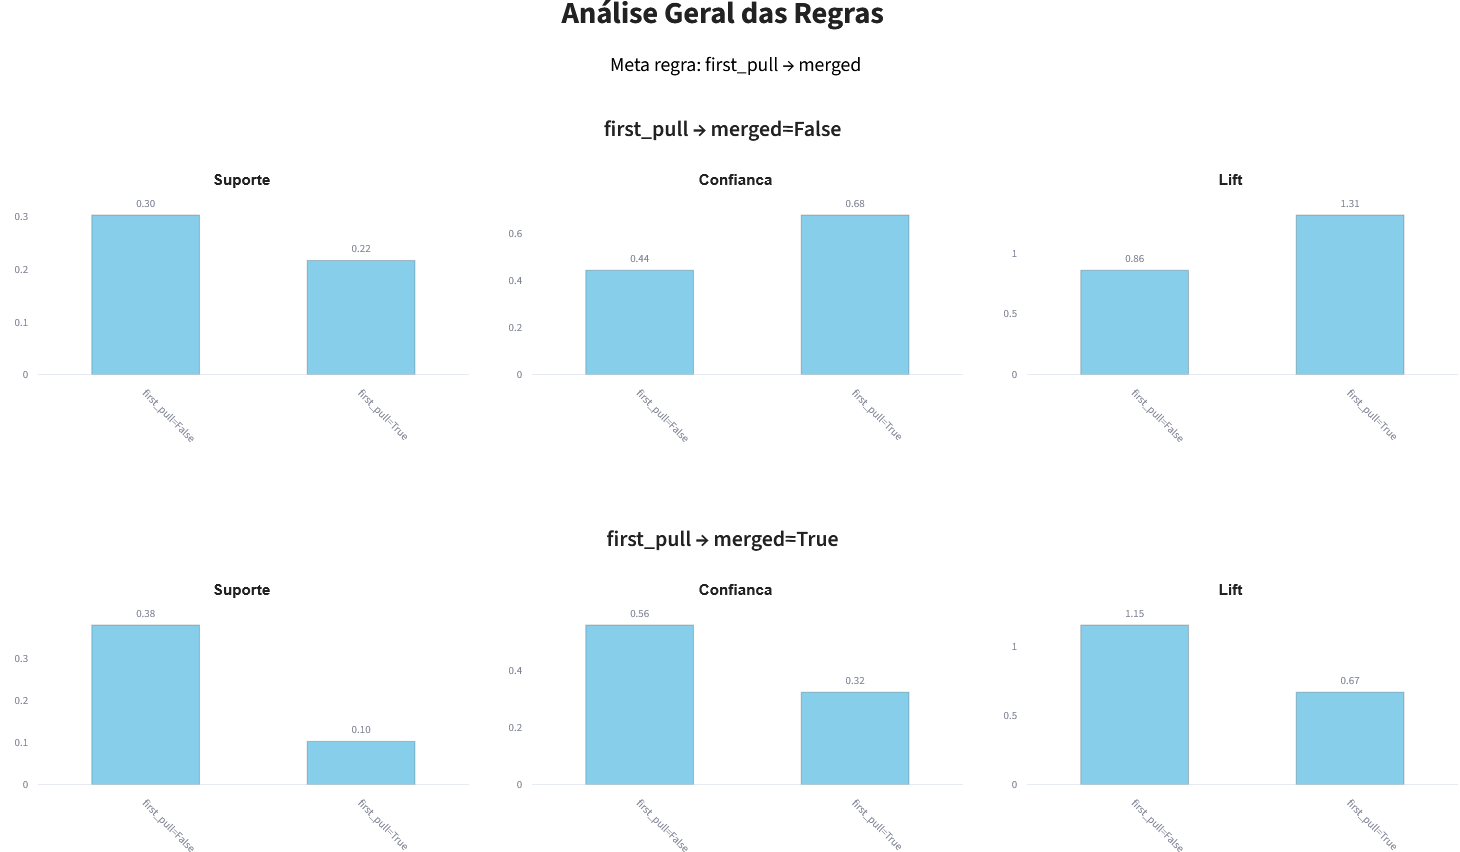
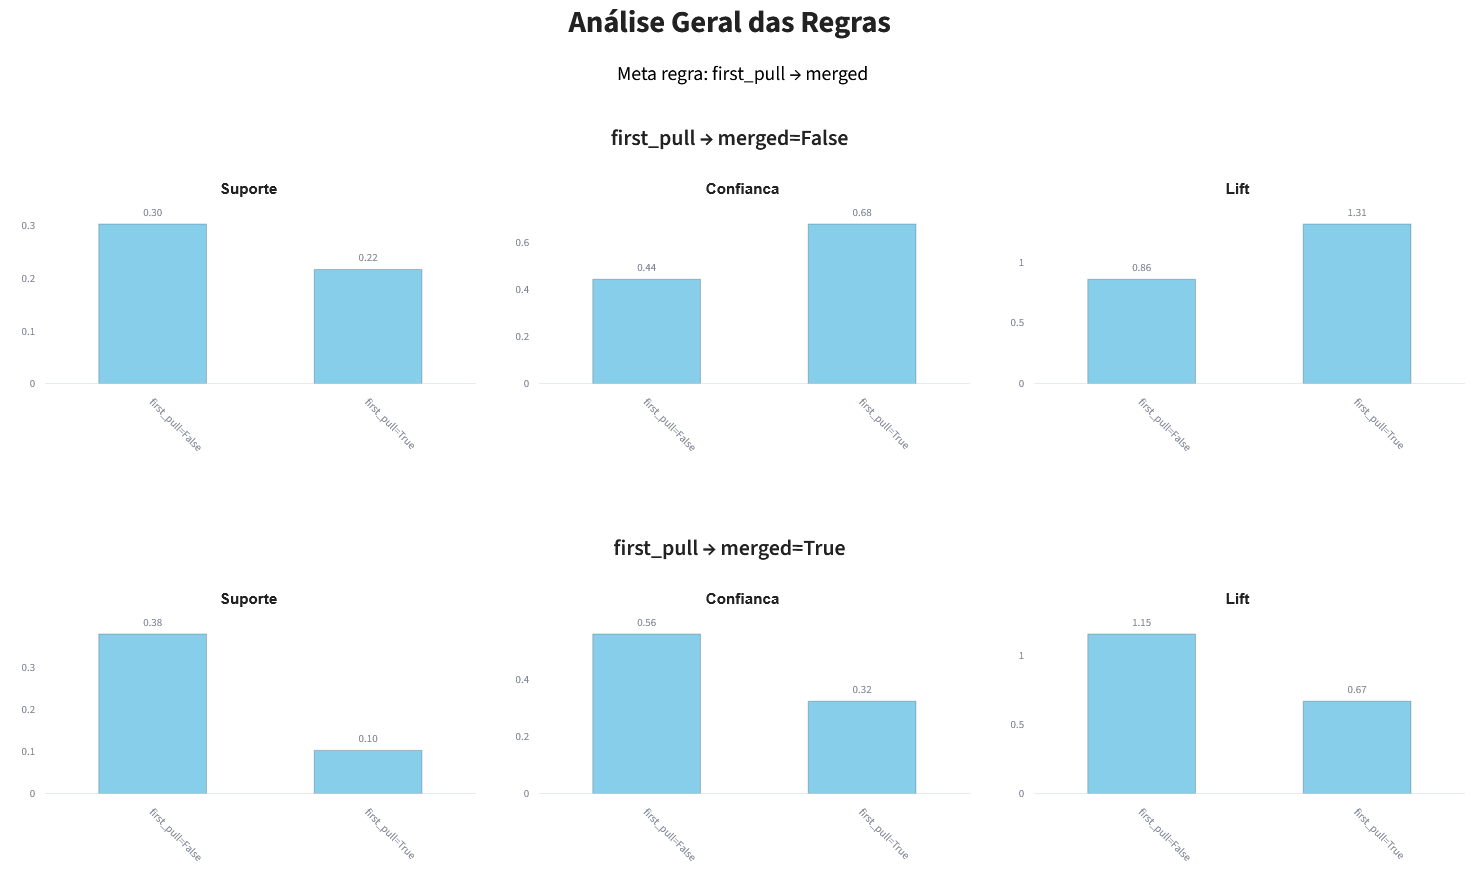
Update README.md with reproducible validation example and analysis instructions; add new images for general and temporal analysis

diff --git a/README.md b/README.md
@@ -157,35 +157,25 @@ To use an example dataset:
 - Run the analysis and explore the temporal visualizations presented.
 
 
-## Technologies
-
-Python
-
-Streamlit
-
-Pandas
-
-MLxtend
-
-Plotly
-
-Matplotlib
-
-Licença
-
-
-
 ## Reproducible Validation Example
-**Dataset:** `datasets/django.csv`
 
-**Minimum Support:** 1.00%
+### Load CSV Tab
 
-**Minimum Confidence:** 1.00%
+In the **Carregar CSV** tab, upload the dataset:
 
-**Selected Meta Regra:** first_pull → merged
+`datasets/django.csv`
 
+Verify that the dataset is loaded successfully before proceeding to the next tab.
 
-### Expected Results from the General Analysis
+### General Rules Tab
+
+In the **Regras Gerais** tab, configure the analysis as follows:
+
+- **Suporte mínimo:** 1.00%
+- **Confiança mínima:** 1.00%
+- **Meta-regra:** `first_pull → merged`
+
+Run the general analysis. The following results are expected:
 
 **Rule:** `first_pull=False → merged=False`
 
@@ -214,7 +204,7 @@ Licença
 
 **Rule:** `first_pull=True → merged=True`
 
-| Metric|	  Expected | Value |
+| Metric | 	  Expected | Value |
 | --- | --- |
 | Support	|       0.10 |
 | Confidence |	   0.32 |
@@ -222,9 +212,12 @@ Licença
 
 ![General Analysis](./datasets/validation/general_analysis.png)
 
-### Temporal Analysis
+### Temporal Analysis Tab
 
-The temporal analysis was performed using three equal-duration temporal partitions.
+In the **Análise Temporal** tab:
+
+- **Particionamento da Base de Dados:** Select: Mesmo tamanho temporal
+- **Núm. partições:** 3
 
 The dataset covers the period from **28/04/2012 to 29/11/2025**. The tool divided this period into three temporal partitions with approximately equal durations:
 
@@ -234,9 +227,13 @@ The dataset covers the period from **28/04/2012 to 29/11/2025**. The tool divide
 | P2 | 07/11/2016 | 19/05/2021 | 5,116 | 4 years, 6 months, 11 days |
 | P3 | 19/05/2021 | 29/11/2025 | 3,967 | 4 years, 6 months, 9 days |
 
-The minimum Support and minimum Confidence were both set to **1.00%**. The temporal analysis was then generated using the `first_pull → merged` meta-rule.
+Configure the analysis as follows:
 
-### Expected Temporal Results
+- **Suporte mínimo:** 1.00%
+- **Confiança mínima:** 1.00%
+- **Meta-regra:** `first_pull → merged` (Selected in the General Analysis)
+
+Run the temporal analysis. The following results are expected:
 
 | Partition | Support | Confidence | Lift |
 |---|---:|---:|---:|
